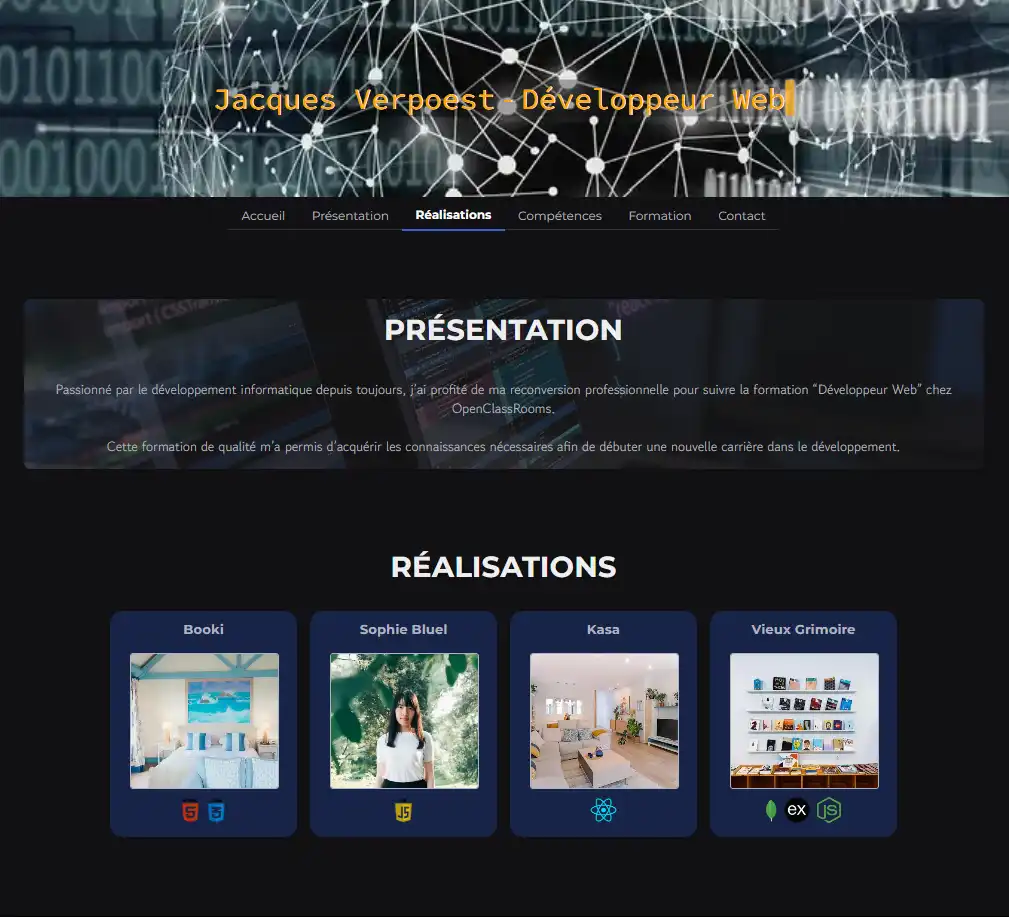
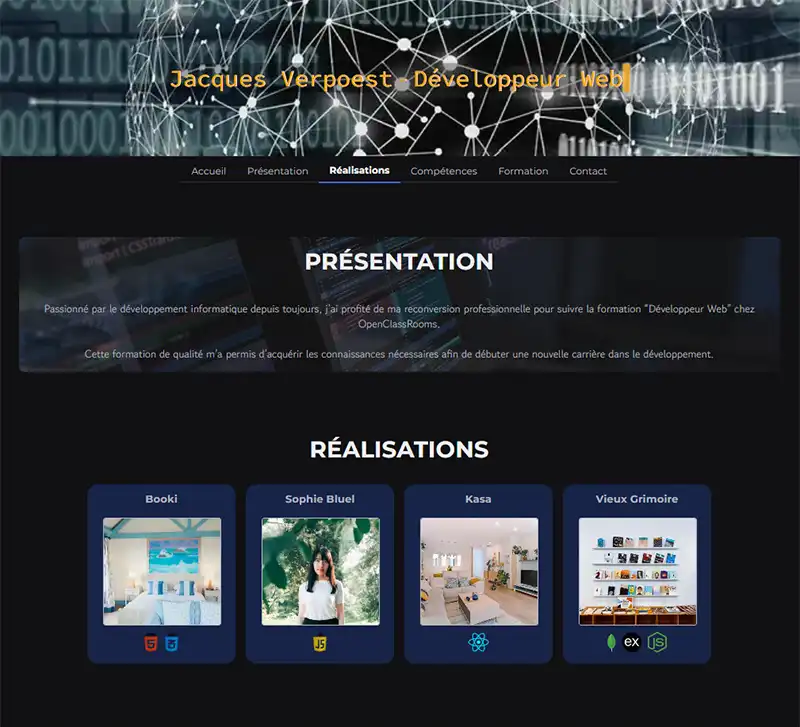
modal

diff --git a/src/components/CreationModal/CreationModal.jsx b/src/components/CreationModal/CreationModal.jsx
@@ -1,3 +1,4 @@
+import { useEffect, useState } from "react";
 import { faGithub } from "@fortawesome/free-brands-svg-icons"
 import { faSquareXmark } from "@fortawesome/free-solid-svg-icons"
 import { faGlobe } from "@fortawesome/free-solid-svg-icons"
@@ -5,39 +6,83 @@ import { FontAwesomeIcon } from "@fortawesome/react-fontawesome"
 import "./CreationModal.scss"
 
 export default function CreationModal({ closeModal, creation }) {
+  const [isVisible, setIsVisible] = useState(false);
+
+  useEffect(() => {
+    setIsVisible(true);
+  }, []);
+
+  const handleClose = () => {
+    setIsVisible(false);
+    setTimeout(closeModal, 500);
+  };
+
+  const handleBackgroundClick = (event) => {
+    if (event.target.classList.contains("modal_window")) {
+      handleClose();
+    }
+  }
+
   return (
-    <div className="modal_window">
+    <div
+      className={`modal_window ${isVisible ? "modal-enter" : "modal-exit"}`}
+      onClick={handleBackgroundClick}
+    >
       <div className="modal_container">
         <div className="modal_header">
-          {creation.website && (
-            <div className="modal_website">
+          <div className="modal_header-name">{creation.name}</div>
+          <div className="modal_header-links">
+            {creation.website && (
+              <div className="modal_website">
+                <a
+                  href={creation.website}
+                  target="_blank"
+                  rel="noopener noreferrer"
+                >
+                  <FontAwesomeIcon icon={faGlobe} size="2xl" />
+                </a>
+              </div>
+            )}
+
+            <div className="modal_github">
               <a
-                href={creation.website}
+                href={creation.github}
                 target="_blank"
                 rel="noopener noreferrer"
               >
-                <FontAwesomeIcon icon={faGlobe} size="2xl" />
+                <FontAwesomeIcon icon={faGithub} size="2xl" />
               </a>
             </div>
-          )}
-          <div className="modal_github">
-            <a href={creation.github} target="_blank" rel="noopener noreferrer">
-              <FontAwesomeIcon icon={faGithub} size="2xl" />
-            </a>
-          </div>
-          <div className="modal_close" onClick={closeModal}>
-            <FontAwesomeIcon icon={faSquareXmark} size="2xl" />
+            <div className="modal_close" onClick={handleClose}>
+              <FontAwesomeIcon icon={faSquareXmark} size="2xl" />
+            </div>
           </div>
         </div>
         <div className="modal_content">
-          <img
-            className="modal_img"
-            src={`${import.meta.env.BASE_URL}assets/creations/${
-              creation.image
-            }_page.webp`}
-            alt={creation.name}
-            loading="lazy"
-          ></img>
+          <div className="modal_text">
+            <div dangerouslySetInnerHTML={{ __html: creation.text }}></div>
+            <div className="modal_skills">
+              {creation.skills.map((skill, index) => (
+                <img
+                  key={index}
+                  className="img__tag"
+                  src={`${
+                    import.meta.env.BASE_URL
+                  }assets/skills/${skill.toLocaleLowerCase()}.webp`}
+                  alt={skill}
+                ></img>
+              ))}
+            </div>
+          </div>
+          <div className="modal_img">
+            <img
+              src={`${import.meta.env.BASE_URL}assets/creations/${
+                creation.image
+              }_page.webp`}
+              alt={creation.name}
+              loading="lazy"
+            ></img>
+          </div>
         </div>
       </div>
     </div>

diff --git a/src/components/CreationModal/CreationModal.scss b/src/components/CreationModal/CreationModal.scss
@@ -1,7 +1,7 @@
 @use "../../variables.scss";
 
 .modal_window {
-  z-index: 95;
+  z-index: 999;
   display: flex;
   justify-content: center;
   align-items: center;
@@ -10,7 +10,18 @@
   left: 0;
   width: 100%;
   height: 100%;
-  background-color: rgba(0, 0, 0, 0.7);
+  background-color: rgba(0, 0, 0, 0.8);
+
+  opacity: 0;
+  transition: opacity 0.5s ease;
+}
+
+.modal_window.modal-enter {
+  opacity: 1;
+}
+
+.modal_window.modal-exit {
+  opacity: 0;
 }
 
 .modal_container {
@@ -31,9 +42,27 @@
   color: white;
   display: flex;
   justify-content: flex-end;
-  gap: 20px;
   align-items: center;
   border-radius: 20px 20px 0 0;
+  position: relative;
+
+  &-name {
+    position: absolute;
+    left: 50%;
+    transform: translateX(-50%);
+    font-size: 18px;
+    font-weight: 700;
+
+    @media (max-width: variables.$breakpoint-tablet) {
+      font-size: 16px;
+    }
+  }
+
+  &-links {
+    display: flex;
+    flex-direction: row;
+    gap: 10px;
+  }
 }
 
 .modal_content {
@@ -45,21 +74,57 @@
   overflow: auto;
 }
 
-.modal_img {
-  width: 90%;
-  height: auto;
-  object-fit: cover;
+.modal_text {
+  background-color: variables.$color_accessible2_2;
+  color: black;
+  padding: 10px 15px;
+  margin-bottom: 20px;
+  border: 1px solid variables.$color_borders2_3;
+  border-radius: 5px;
+
+  line-height: 1.6;
+
+  * {
+    font-size: 16px;
+    @media (max-width: variables.$breakpoint-tablet) {
+      font-size: 14px;
+    }
+  }
+
+  b {
+    font-weight: 700;
+  }
 }
 
-.modal_github, .modal_website {
+.modal_skills {
+  display: flex;
+  justify-content: center;
+  margin-top: 10px;
+  gap: 15px;
+}
+
+.modal_img {
+  border: 1px solid variables.$color_borders2_3;
+  border-radius: 5px;
+
+  img {
+    width: 100%;
+    height: auto;
+    object-fit: cover;
+    border-radius: 5px;
+  }
+}
+
+.modal_github,
+.modal_website {
   cursor: pointer;
 
   &:hover {
     color: variables.$color_accessible1_1;
   }
 
-  a{
-    color:inherit;
+  a {
+    color: inherit;
     text-decoration: none;
   }
 }

diff --git a/src/components/TypeWriterTODELETE/TypeWriter.jsx b/src/components/TypeWriterTODELETE/TypeWriter.jsx
@@ -5,7 +5,7 @@ export default function TypeWriter() {
   return (
     <Typewriter
       options={{
-        strings: ["Jacques Verpoest - Développeur Web"],
+        strings: ["Jacques Verpoest - gdfgfdgfdfggdfdfgfgdDéveloppeur Web"],
         autoStart: true,
         loop: true,
       }}
